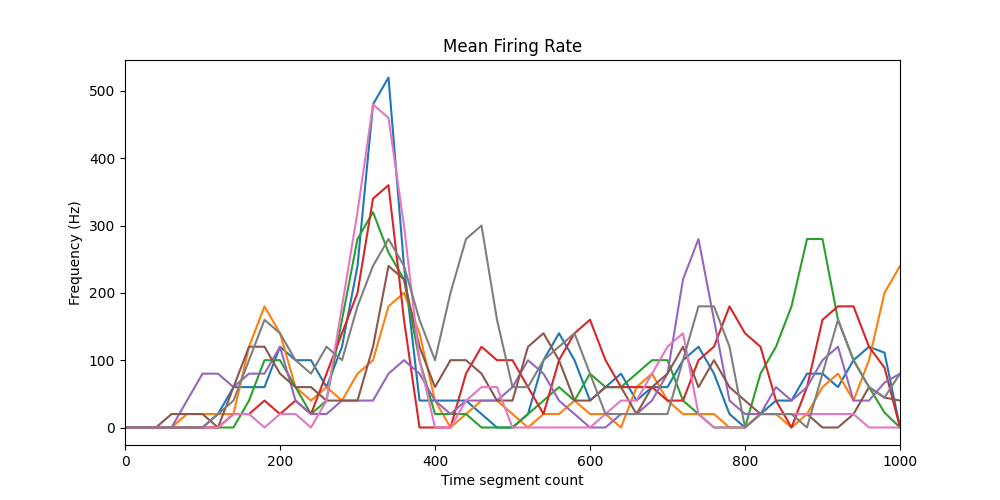
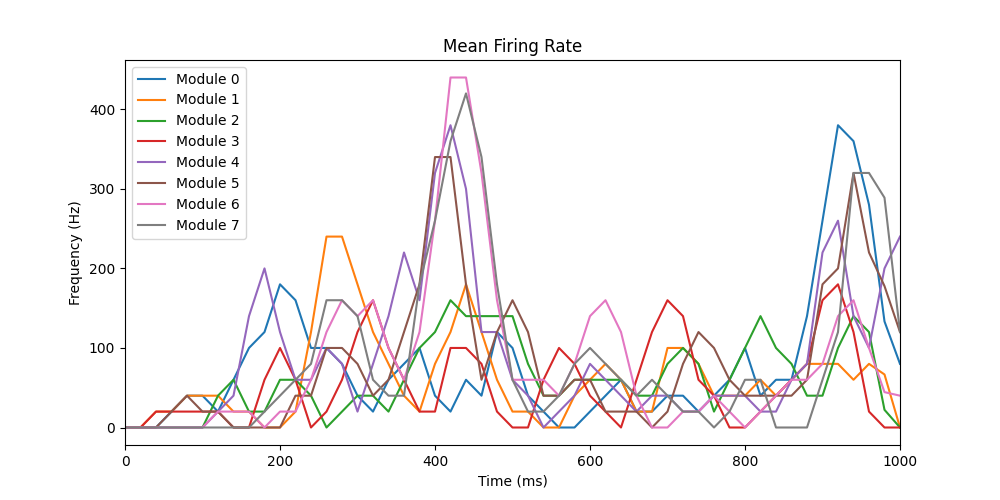
did some refactoring

diff --git a/utils/swm_network.py b/utils/swm_network.py
@@ -28,7 +28,7 @@ class SWMNetwork:
         II_block = -1 * np.random.random(size=(self.i_neurons, self.i_neurons)) * F_II
         np.fill_diagonal(II_block, 0)
         IE_blocks = [-1 * np.random.random(size=(self.i_neurons, self.ee_m_neurons)) * F_IE for _ in range(self.modules_num)]
-        EI_blocks = [SWMNetwork.create_EI_block(i, self.ee_m_neurons, self.i_neurons) * F_EI for i in range(0, self.i_neurons, 25)]
+        EI_blocks = [SWMNetwork._create_EI_block(i, self.ee_m_neurons, self.i_neurons) * F_EI for i in range(0, self.i_neurons, 25)]
 
         """
         [   EE      zero    zero    zero    zero    zero    zero    E-I
@@ -40,25 +40,22 @@ class SWMNetwork:
         ]
         """
         ## generate W matrix
-        W = np.bmat([
-            [zero_block for _ in range(0, i)] + [SWMNetwork.create_EE_block(self.ee_m_neurons, self.ee_m_edges) * F_EE] + [zero_block for _ in range(i+1, self.modules_num)] + [EI_blocks[i]] for i in range(self.modules_num)
+        self.W = np.bmat([
+            [zero_block for _ in range(0, i)] + [SWMNetwork._create_EE_block(self.ee_m_neurons, self.ee_m_edges) * F_EE] + [zero_block for _ in range(i+1, self.modules_num)] + [EI_blocks[i]] for i in range(self.modules_num)
         ] + [IE_blocks + [II_block]])
-
-        SWMNetwork.plot_weight_matrix(W)
 
         # generate D matrix
         D = dmax*np.ones((self.N, self.N), dtype=int)
         ee_matrix = self.ee_m_neurons * self.modules_num
         D[:ee_matrix, :ee_matrix] = 1 + np.random.random(size=(ee_matrix, ee_matrix)) * 19 # random delay between 1ms and 20ms
 
-        self._rewire(W, p)
-        SWMNetwork.plot_weight_matrix(W, f"static/connectivity_{self.p}.png")
+        self._rewire(p)
 
         self.net.setParameters(a, b, c, d)
         self.net.setDelays(D)
-        self.net.setWeights(W)
+        self.net.setWeights(self.W)
 
-    def create_EE_block(n_neurons=100, n_edges=1000, weight=1):
+    def _create_EE_block(n_neurons=100, n_edges=1000, weight=1):
         full_edges = n_neurons*(n_neurons-1)
         block = [0 for _ in range(full_edges)]
         edges = np.random.choice(full_edges, n_edges, replace=False)
@@ -71,17 +68,17 @@ class SWMNetwork:
         # 100 by 100 matrix
         return np.array(block).reshape((n_neurons, n_neurons))
 
-    def create_EI_block(shift, n_rows=100, n_cols=200):
+    def _create_EI_block(shift, n_rows=100, n_cols=200):
         # return (100, 200) matrix
         block = np.zeros((n_rows, n_cols))
         for i, r in enumerate(range(0, 100, 4)):
             block[r: r+4, shift+i: shift+i+1] = np.random.random(size=(4, 1))
         return block
 
-    def plot_weight_matrix(weight, fn="static/weight.png"):
-        l, h = np.min(weight), np.max(weight)
-        imarr = np.zeros((weight.shape[0], weight.shape[1], 3))
-        imarr[:,:, 0] = weight
+    def plot_weight_matrix(self, fn="static/weight.png"):
+        l, h = np.min(self.W), np.max(self.W)
+        imarr = np.zeros((self.W.shape[0], self.W.shape[1], 3))
+        imarr[:,:, 0] = self.W
         def set_color(w):
             if w[0] == 0:
                 return np.array([0,0,0], dtype=np.uint8)
@@ -91,7 +88,7 @@ class SWMNetwork:
         imarr = np.apply_along_axis(set_color, 2, imarr)
         Image.fromarray(imarr, mode="RGB").save(fn)
    
-    def _rewire(self, W, p):
+    def _rewire(self, p):
         n_candidates = self.ee_m_neurons*(self.modules_num-1)
         for i in range(self.modules_num):
             # Work out bounds of the current block
@@ -101,7 +98,7 @@ class SWMNetwork:
                 n_avail = n_candidates
                 for k in range(block_start, block_end):
                     # Record current weight, only process if there is an edge
-                    current_weight = W[j, k]
+                    current_weight = self.W[j, k]
                     if current_weight != 0 and np.random.choice([True, False], p=[p, 1 - p]):
                         # New target must be from other block
                         new_target = int(n_avail * np.random.random())+1
@@ -110,7 +107,7 @@ class SWMNetwork:
                             if t == block_start:
                                 t += self.ee_m_neurons
                                 continue
-                            if W[j,t] == 0:
+                            if self.W[j,t] == 0:
                                 acc += 1
                             if acc == new_target:
                                 break
@@ -118,11 +115,11 @@ class SWMNetwork:
 
                         # Process the rewiring
                         n_avail -= 1
-                        W[j, k] = 0
-                        W[j, t] = current_weight
+                        self.W[j, k] = 0
+                        self.W[j, t] = current_weight
 
 
-    def mean_firing_rate(self, spike_counts, step_size=20):
+    def _mean_firing_rate(self, spike_counts, step_size=20):
         half_window = int(spike_counts.shape[1]/step_size/2)
         mean_firing_rates = []
         for i in range(0, spike_counts.shape[1] + step_size, step_size):
@@ -145,7 +142,7 @@ class SWMNetwork:
                 module = i // 100
                 spike_counts[module, t] += 1
         
-        fire_rate = self.mean_firing_rate(spike_counts, mean_step_size)            
+        fire_rate = self._mean_firing_rate(spike_counts, mean_step_size)            
         plt.title("Raster plot")
         plt.figure(figsize=(10, 5))
         plt.xlabel("Time (ms)")
@@ -153,15 +150,18 @@ class SWMNetwork:
         plt.scatter(fire_time, fire_num, s=1)
         plt.savefig(f"static/raster_{self.p}.png")
         plt.clf()
+        
         plt.title("Mean Firing Rate")
         plt.ylabel("Frequency (Hz)")
-        plt.xlabel("Time segment count")
+        plt.xlabel("Time (ms)")
         plt.xlim(0, period)
         for n in range(self.modules_num):
-            plt.plot(range(0, period + mean_step_size, mean_step_size), fire_rate[n, :])
+            plt.plot(range(0, period + mean_step_size, mean_step_size), fire_rate[n, :], label=f"Module {n}")
+        plt.legend()
         plt.savefig(f"static/fire_rate_{self.p}.png")             
 
 if __name__ == "__main__":
     for i in [0, 0.1, 0.2, 0.3, 0.4, 0.5]:
         swm = SWMNetwork(p=i)
+        swm.plot_weight_matrix(f"static/connectivity_{i}.png")
         swm.simulate(1000)
